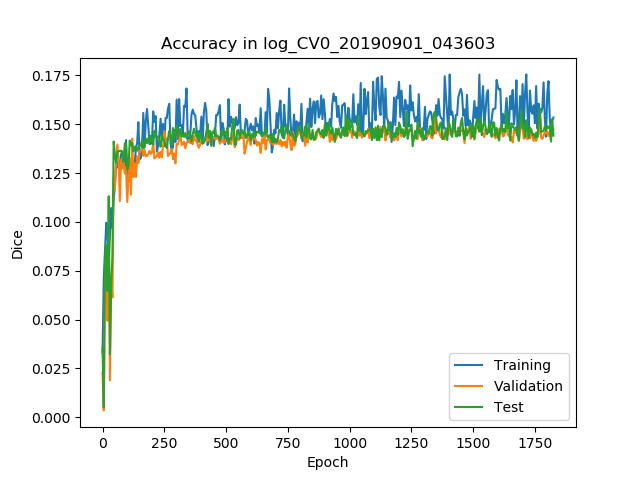
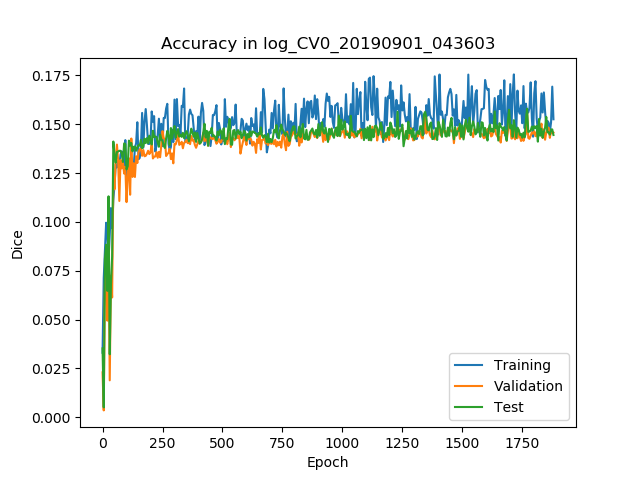
change LR scheduler

diff --git a/TrainResNeXtVNet.py b/TrainResNeXtVNet.py
@@ -164,7 +164,7 @@ def main():
         logging.info(net.getParametersScale())
 
     # lrScheduler = optim.lr_scheduler.StepLR(optimizer, step_size=30, gamma=0.5)
-    lrScheduler = optim.lr_scheduler.MultiStepLR(optimizer, milestones=[50, 150, 300, 1200, 2400], gamma=0.1, last_epoch=lastEpoch)
+    lrScheduler = optim.lr_scheduler.MultiStepLR(optimizer, milestones=[50, 150, 250, 400, 600], gamma=0.1, last_epoch=lastEpoch)
 
     if useDataParallel:
         net = nn.DataParallel(net, device_ids=GPUIDList, output_device=device)
